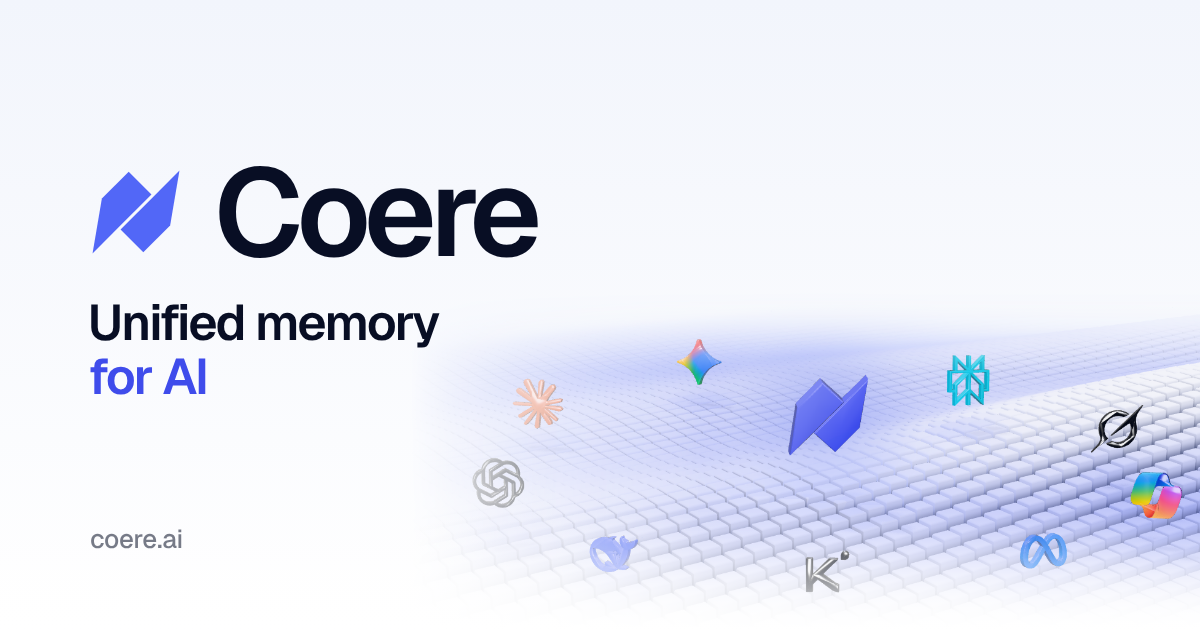
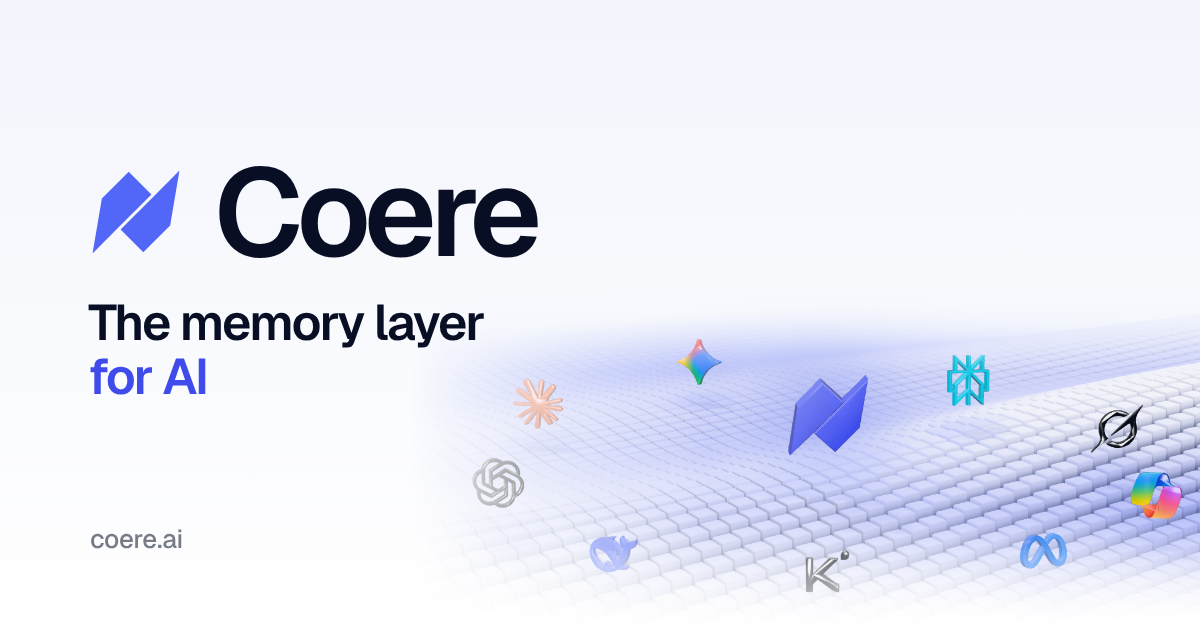
Go stealth: say only that Coere is a memory layer for AI
The site now says nothing about what Coere does beyond being a memory
layer for AI.

- Search title and description, social cards, structured data and the web
  manifest read "Coere AI | The memory layer for AI" and "Coere AI is the
  memory layer for AI." The tagline and slogan match.
- The share image and its alt text carry the same line, in place of
  "Unified memory for AI".
- llms.txt keeps only the name, the Cohere disambiguation, the team and the
  contact address.
- The README (the repo is public) no longer describes the products.
- The unlisted /demo film answers 404 on the live site; local runs and
  preview deploys still play it.

Claude-Session: https://claude.ai/code/session_01Jzec99JUBouEjAsySu2NWW

Changed region(s): [[0.0617, 0.4825, 0.4008, 0.5429]]

diff --git a/src/lib/site.ts b/src/lib/site.ts
@@ -4,7 +4,7 @@
 export const siteConfig = {
   name: "Coere",
   legalName: "Coere AI",
-  tagline: "Unified memory for AI",
+  tagline: "The memory layer for AI",
   domain: "coere.ai",
   /**
    * The canonical origin, with no trailing slash. The apex coere.ai redirects
@@ -12,9 +12,8 @@ export const siteConfig = {
    */
   url: process.env.NEXT_PUBLIC_SITE_URL ?? "https://www.coere.ai",
   /** For search results and link previews; not shown on the page. */
-  title: "Coere AI | The memory layer for every AI you use",
-  description:
-    "Coere AI is the memory layer for AI. Coere Connect carries your memory across ChatGPT, Claude, Gemini and more; Coere Developer brings it to apps through an API, MCP and SDK.",
+  title: "Coere AI | The memory layer for AI",
+  description: "Coere AI is the memory layer for AI.",
   email: "coereagent@gmail.com",
   /** Profiles that speak for Coere, for search engines (schema.org sameAs). */
   profiles: [

diff --git a/src/app/demo/page.tsx b/src/app/demo/page.tsx
@@ -1,7 +1,12 @@
 import type { Metadata } from "next";
+import { notFound } from "next/navigation";
 import { DemoPlayer } from "@/components/demo/demo-player";
 
-/** Unlisted: nothing links here, and its noindex keeps it out of search. */
+/**
+ * Not public for now: the live site answers 404, while local runs and preview
+ * deploys still play the film. Nothing links here, and its noindex keeps any
+ * preview out of search.
+ */
 export const metadata: Metadata = {
   title: "Demo",
   robots: { index: false, follow: false, nocache: true },
@@ -10,6 +15,8 @@ export const metadata: Metadata = {
 
 /** `/demo?t=24` jumps straight to that second, handy for grabbing stills. */
 export default async function DemoPage({ searchParams }: PageProps<"/demo">) {
+  if (process.env.VERCEL_ENV === "production") notFound();
+
   const { t } = await searchParams;
   const startAt = Number(Array.isArray(t) ? t[0] : t);
 

diff --git a/src/app/robots.ts b/src/app/robots.ts
@@ -1,10 +1,7 @@
 import type { MetadataRoute } from "next";
 import { siteConfig } from "@/lib/site";
 
-/**
- * Everything may be crawled. The unlisted /demo page keeps itself out of the
- * index with its own noindex, which crawlers can only see if they may fetch it.
- */
+/** Everything may be crawled; there is only the one page. */
 export default function robots(): MetadataRoute.Robots {
   return {
     rules: [{ userAgent: "*", allow: "/" }],

diff --git a/README.md b/README.md
@@ -1,9 +1,6 @@
 # Coere — marketing site
 
-Landing page for **Coere** (Coere AI), unified memory for AI. Coere Connect is
-a Chrome extension that carries your memory across every AI you use, so a new
-chat in any of them picks up where the last one left off; Coere Developer lets
-apps read that memory through an API, MCP and SDK.
+Landing page for **Coere** (Coere AI), the memory layer for AI.
 
 Built with Next.js (App Router) + TypeScript + Tailwind CSS v4 + Motion, with
 the hero rendered in 3D by three.js.
@@ -109,9 +106,10 @@ work.
 
 ## The demo film
 
-`/demo` is an unlisted page holding a 60 second product film built entirely in
-HTML. Nothing links to it and it is `noindex`. `robots.txt` deliberately lets
-crawlers fetch it, since a crawler blocked from the page never sees its noindex.
+`/demo` is an unlisted page holding a 60 second film built entirely in HTML.
+It is not public for now: the production site answers 404 for it (the check is
+in `src/app/demo/page.tsx`), while local runs and preview deploys still play
+it.
 
 - Space bar plays and pauses, `r` restarts, arrow keys jump five seconds, and
   the scrubber can be clicked or dragged.
@@ -165,15 +163,17 @@ that runs a Next.js build works (Vercel needs no configuration). If
 
 What the site tells search engines, so "Coere" and "Coere AI" find it:
 
-- The title is "Coere AI | The memory layer for every AI you use", and the
-  description names Coere Connect, Coere Developer and the AIs they work with.
+- The title is "Coere AI | The memory layer for AI", and the description says
+  no more than that. The site is in stealth, so keep it that way: copy, titles,
+  descriptions, share images and structured data should not say what Coere does
+  beyond being a memory layer for AI.
 - One canonical host, `https://www.coere.ai`, in the canonical link, Open
   Graph URL, structured data, sitemap and robots file.
 - JSON-LD on the home page: a `WebSite` named "Coere" (also "Coere AI" and
   "coere.ai"), which is what Google uses for the site name in results, and an
   `Organization` with the same names, the logo, the founders and the profiles
-  in `siteConfig.profiles`. Add every official profile there (X, Crunchbase,
-  the Chrome Web Store listing) as it goes live.
+  in `siteConfig.profiles`. Add every official profile there (X, Crunchbase)
+  as it goes live.
 - The Coere mark as favicon (ico, svg and png) and apple-touch icon, a web
   manifest, and a 1200x630 share image.
 - `public/llms.txt`, which says plainly that Coere is not Cohere.
